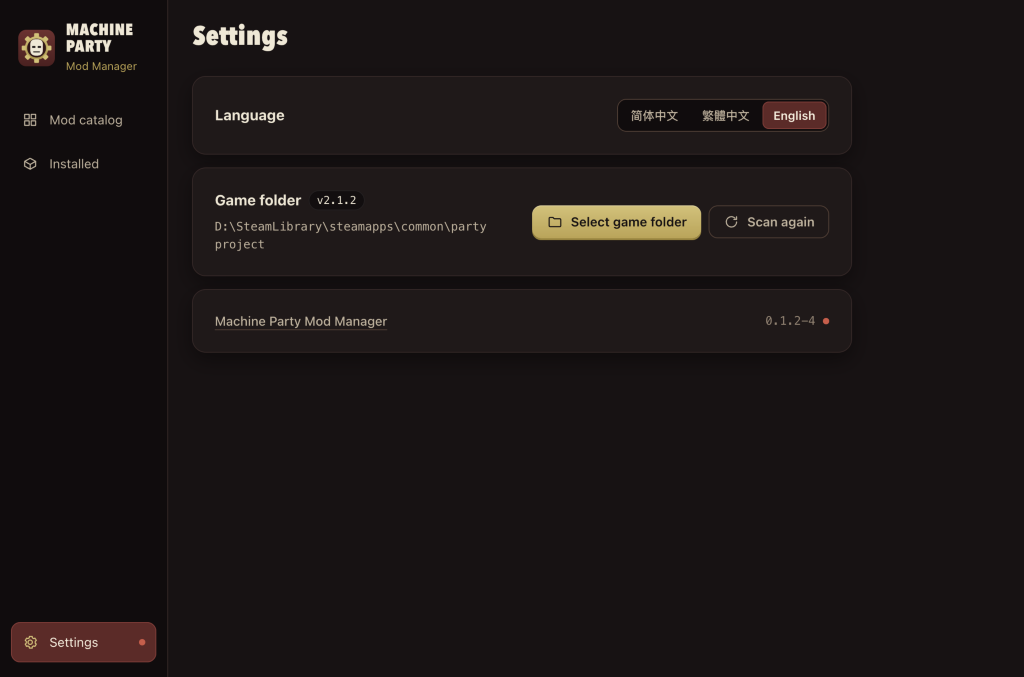
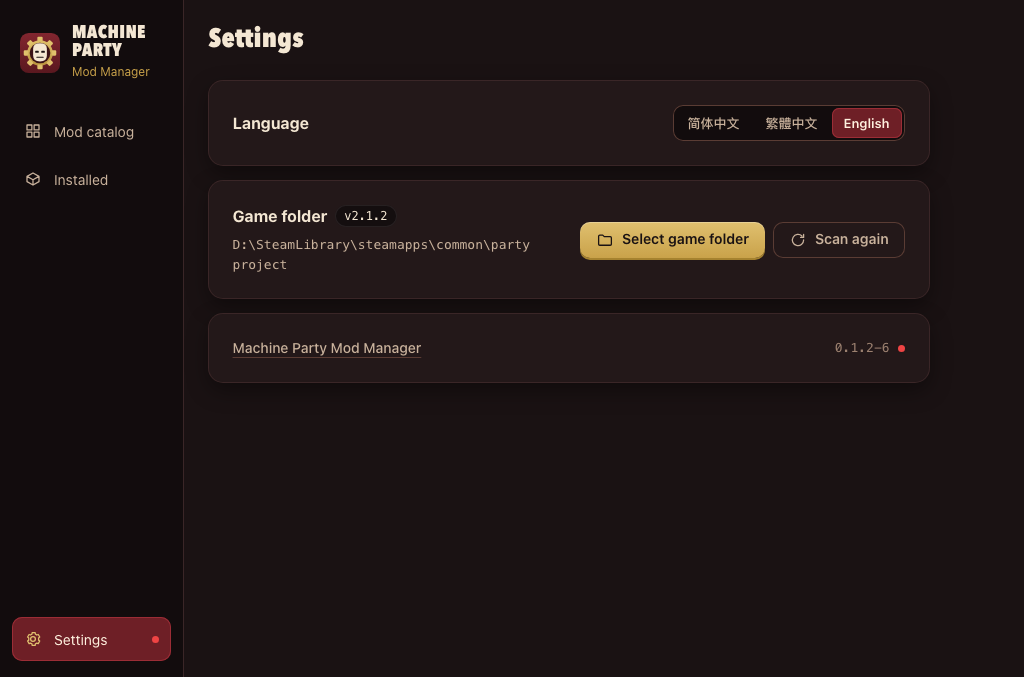
docs: update guides and add localized desktop screenshots

diff --git a/docs/readme/README.zh-TW.md b/docs/readme/README.zh-TW.md
@@ -6,7 +6,7 @@
 
 ### 為 Machine Party 打造的一鍵模組管理器。
 
-在同一個視窗瀏覽 [Machine Party](https://store.steampowered.com/app/4108000/Machine_Party/) 的精選社群模組與內建玩法模組，依遊戲副本比對版本，並在驗證與備份保護下完成安裝與還原。
+在同一個視窗瀏覽 [Machine Party](https://store.steampowered.com/app/4108000/Machine_Party/) 的精選收錄模組，依遊戲副本比對版本，並在驗證與備份保護下完成安裝與還原。
 
 <p align="center">
   <a href="https://github.com/JamesGZM/machine-party-mod-manager/actions/workflows/check.yml"><img src="https://img.shields.io/github/actions/workflow/status/JamesGZM/machine-party-mod-manager/check.yml?branch=main&amp;style=flat-square&amp;label=checks" height="24" alt="原始碼檢查狀態"></a>
@@ -27,16 +27,16 @@
 </div>
 
 <p align="center">
-  <img src="../images/screenshot-catalog.png" width="100%" alt="Machine Party 模組管理器目錄介面，顯示五個 v2.1.2 測試版條目">
+  <img src="../images/screenshot-catalog.zh-TW.png" width="100%" alt="Machine Party 模組管理器目錄介面，顯示五個 v2.1.2 測試版條目">
 </p>
 
-<p align="center"><sub>桌面端目錄介面，顯示包含內建模組《滾筒嘉年華》在內的全部五個 <code>v2.1.2</code> Windows 測試版條目。</sub></p>
+<p align="center"><sub>桌面端目錄介面，顯示全部五個 <code>v2.1.2</code> Windows 測試版條目。</sub></p>
 
 ## 一目了然
 
-| 精選收錄與內建模組 | 校驗備份，安全還原 | 鏡像加速與簽章更新 |
+| 精選收錄模組 | 校驗備份，安全還原 | 鏡像加速與簽章更新 |
 | --- | --- | --- |
-| 支援簡體中文、繁體中文與英文別名搜尋、連線說明與作者首頁入口，並內建自研模組《滾筒嘉年華》。 | 修改檔案前先檢查遊戲程序、基線指紋與互斥衝突；依遊戲副本保留可校驗備份，支援離線卸載還原。 | 目錄同步與已授權安裝包優先經專案 Cloudflare Worker 取得，不依賴連線 GitHub；應用更新附簽章驗證與更新說明。 |
+| 支援簡體中文、繁體中文與英文別名搜尋、連線說明與作者首頁入口，涵蓋目錄內全部模組。 | 修改檔案前先檢查遊戲程序、基線指紋與互斥衝突；依遊戲副本保留可校驗備份，支援離線卸載還原。 | 目錄同步與已授權安裝包優先經專案 Cloudflare Worker 取得，不依賴連線 GitHub；應用更新附簽章驗證與更新說明。 |
 
 Steam 目錄自動偵測 · 離線快取與還原 · 简体中文 / 繁體中文 / English 三語介面
 
@@ -46,7 +46,7 @@ Steam 目錄自動偵測 · 離線快取與還原 · 简体中文 / 繁體中文
 
 | 平台 | 架構 | 下載 | 說明 |
 | --- | --- | --- | --- |
-| Windows | x64 | [正式版 v0.1.1（`setup.exe`）](https://machineparty.ailaogong.men/v1/app-downloads/0.1.1/setup.exe) · [測試版 v0.1.2-3（`setup.exe`）](https://machineparty.ailaogong.men/v1/app-downloads/0.1.2-3/setup.exe) | NSIS 安裝程式，支援簽章應用內更新 |
+| Windows | x64 | [正式版 v0.1.1（`setup.exe`）](https://machineparty.ailaogong.men/v1/app-downloads/0.1.1/setup.exe) · [測試版 v0.1.2-6（`setup.exe`）](https://machineparty.ailaogong.men/v1/app-downloads/0.1.2-6/setup.exe) | NSIS 安裝程式，支援簽章應用內更新 |
 | macOS | Apple Silicon | [正式版 v0.1.1（`MachineParty-aarch64.app.tar.gz`）](https://machineparty.ailaogong.men/v1/app-downloads/0.1.1/MachineParty-aarch64.app.tar.gz) | 瀏覽目錄與接收應用更新（遊戲僅限 Windows） |
 
 Windows 下載後執行 NSIS 安裝程式即可；Apple Silicon Mac 解壓封存檔並將 `.app` 移入可寫入的應用程式目錄。
@@ -64,7 +64,7 @@ Windows 下載後執行 NSIS 安裝程式即可；Apple Silicon Mac 解壓封存
 
 | 設定頁 | 應用內更新提示 |
 | --- | --- |
-| ![設定頁](../images/screenshot-settings.png) | ![應用內更新提示](../images/screenshot-update.png) |
+| ![設定頁](../images/screenshot-settings.zh-TW.png) | ![應用內更新提示](../images/screenshot-update.zh-TW.png) |
 
 ## 已收錄模組
 
@@ -74,7 +74,7 @@ Windows 下載後執行 NSIS 安裝程式即可；Apple Silicon Mac 解壓封存
 | [MachineParty+](https://github.com/Ghostx10742/MachineParty-Plus) | `v2.1.0` | 公開房間、語音與文字聊天 | 載入器模組（`loader-files`，Windows 測試版） |
 | [Broadcast 8P Freecam](https://github.com/Lnksoul/MachineParty_Broadcast8P_Freecam_Patcher) | `v0.91` | 八人團播、四隊輪換與導播自由鏡頭 | PowerShell 修補（`upstream-cli`，Windows 測試版） |
 | [八人連線模組](https://github.com/Binary1936/machine-party-8p) | `v1.5` | 將線上遊戲擴充至 8 人 | 內建 Python 修補（`upstream-cli`，Windows 測試版） |
-| [滾筒嘉年華](https://github.com/JamesGZM/machine-party-mod-manager/tree/main/mods/roller-carnival) | `v0.1.0` | 機械狂歡躲避小遊戲 | 載入器模組（`loader-files` + `autoLoader`，R2 ZIP，Windows 測試版） |
+| [滾筒嘉年華](https://github.com/JamesGZM/machine-party-mod-manager/tree/main/mods/roller-carnival) | `v0.1.0` | 機械狂歡躲避小遊戲 | 載入器模組（`loader-files`，Windows 測試版） |
 
 驗收清單、上游授權邊界與互斥群組規則詳見[候選模組與收錄規範](../zh-TW/catalog/mods.md)。
 
@@ -89,6 +89,7 @@ Windows 下載後執行 NSIS 安裝程式即可；Apple Silicon Mac 解壓封存
 | [產品需求](../zh-TW/requirements.md) | 玩家流程、目錄順序、搜尋及驗收條件 |
 | [現行架構](../zh-TW/architecture/README.md) | 元件、Steam 偵測、目錄、安裝與 ADR |
 | [開發指南](../zh-TW/development/README.md) | 環境、目錄結構、命令與驗證 |
+| [模組開發與打包規範](../zh-TW/development/mod-development.md) | 模組開發、測試、目錄接入與確定性 R2 打包規範 |
 | [發布流程](../zh-TW/development/releasing.md) | 簽章桌面更新、更新說明與發布工作流程 |
 | [候選模組與收錄規範](../zh-TW/catalog/mods.md) | 遊戲基線、候選清單、授權與驗收單 |
 | [正式目錄交付方案](../zh-TW/catalog/delivery.md) | Worker 目錄、擁有者批准發布與中國大陸驗收（規劃中） |

diff --git a/docs/readme/README.zh-CN.md b/docs/readme/README.zh-CN.md
@@ -6,7 +6,7 @@
 
 ### 为 Machine Party 打造的一键模组管理器。
 
-在同一个窗口浏览 [Machine Party](https://store.steampowered.com/app/4108000/Machine_Party/) 的精选社区模组与内置玩法模组，按游戏副本对比版本，并在校验与备份保护下完成安装与还原。
+在同一个窗口浏览 [Machine Party](https://store.steampowered.com/app/4108000/Machine_Party/) 的精选收录模组，按游戏副本对比版本，并在校验与备份保护下完成安装与还原。
 
 <p align="center">
   <a href="https://github.com/JamesGZM/machine-party-mod-manager/actions/workflows/check.yml"><img src="https://img.shields.io/github/actions/workflow/status/JamesGZM/machine-party-mod-manager/check.yml?branch=main&amp;style=flat-square&amp;label=checks" height="24" alt="源码检查状态"></a>
@@ -27,16 +27,16 @@
 </div>
 
 <p align="center">
-  <img src="../images/screenshot-catalog.png" width="100%" alt="Machine Party 模组管理器目录界面，展示五个 v2.1.2 测试版条目">
+  <img src="../images/screenshot-catalog.zh-CN.png" width="100%" alt="Machine Party 模组管理器目录界面，展示五个 v2.1.2 测试版条目">
 </p>
 
-<p align="center"><sub>桌面端目录界面，展示包含内置模组《滚筒嘉年华》在内的全部五个 <code>v2.1.2</code> Windows 测试版条目。</sub></p>
+<p align="center"><sub>桌面端目录界面，展示全部五个 <code>v2.1.2</code> Windows 测试版条目。</sub></p>
 
 ## 一目了然
 
-| 精选收录与内置模组 | 校验备份，安全还原 | 镜像加速与签名更新 |
+| 精选收录模组 | 校验备份，安全还原 | 镜像加速与签名更新 |
 | --- | --- | --- |
-| 支持简体中文、繁体中文与英文别名搜索、联机说明与作者主页入口，并内置自研模组《滚筒嘉年华》。 | 修改文件前先检查游戏进程、基线指纹与互斥冲突；按游戏副本保留可校验备份，支持离线卸载还原。 | 目录同步与已授权安装包优先经项目 Cloudflare Worker 获取，不依赖访问 GitHub；应用更新带签名校验与更新说明。 |
+| 支持简体中文、繁体中文与英文别名搜索、联机说明与作者主页入口，覆盖目录内全部模组。 | 修改文件前先检查游戏进程、基线指纹与互斥冲突；按游戏副本保留可校验备份，支持离线卸载还原。 | 目录同步与已授权安装包优先经项目 Cloudflare Worker 获取，不依赖访问 GitHub；应用更新带签名校验与更新说明。 |
 
 Steam 目录自动检测 · 离线缓存与还原 · 简体中文 / 繁體中文 / English 三语界面
 
@@ -46,7 +46,7 @@ Steam 目录自动检测 · 离线缓存与还原 · 简体中文 / 繁體中文
 
 | 平台 | 架构 | 下载 | 说明 |
 | --- | --- | --- | --- |
-| Windows | x64 | [正式版 v0.1.1（`setup.exe`）](https://machineparty.ailaogong.men/v1/app-downloads/0.1.1/setup.exe) · [测试版 v0.1.2-3（`setup.exe`）](https://machineparty.ailaogong.men/v1/app-downloads/0.1.2-3/setup.exe) | NSIS 安装包，支持签名应用内更新 |
+| Windows | x64 | [正式版 v0.1.1（`setup.exe`）](https://machineparty.ailaogong.men/v1/app-downloads/0.1.1/setup.exe) · [测试版 v0.1.2-6（`setup.exe`）](https://machineparty.ailaogong.men/v1/app-downloads/0.1.2-6/setup.exe) | NSIS 安装包，支持签名应用内更新 |
 | macOS | Apple Silicon | [正式版 v0.1.1（`MachineParty-aarch64.app.tar.gz`）](https://machineparty.ailaogong.men/v1/app-downloads/0.1.1/MachineParty-aarch64.app.tar.gz) | 浏览目录与接收应用更新（游戏仅限 Windows） |
 
 Windows 下载后运行 NSIS 安装程序即可；Apple Silicon Mac 解压归档并将 `.app` 移入可写的应用程序目录。
@@ -64,7 +64,7 @@ Windows 下载后运行 NSIS 安装程序即可；Apple Silicon Mac 解压归档
 
 | 设置页 | 应用内更新提示 |
 | --- | --- |
-| ![设置页](../images/screenshot-settings.png) | ![应用内更新提示](../images/screenshot-update.png) |
+| ![设置页](../images/screenshot-settings.zh-CN.png) | ![应用内更新提示](../images/screenshot-update.zh-CN.png) |
 
 ## 已收录模组
 
@@ -74,7 +74,7 @@ Windows 下载后运行 NSIS 安装程序即可；Apple Silicon Mac 解压归档
 | [MachineParty+](https://github.com/Ghostx10742/MachineParty-Plus) | `v2.1.0` | 公开房间、语音与文字聊天 | 加载器模组（`loader-files`，Windows 测试版） |
 | [Broadcast 8P Freecam](https://github.com/Lnksoul/MachineParty_Broadcast8P_Freecam_Patcher) | `v0.91` | 8 人团播、四队轮换与导播自由镜头 | PowerShell 补丁（`upstream-cli`，Windows 测试版） |
 | [八人联机模组](https://github.com/Binary1936/machine-party-8p) | `v1.5` | 将在线游戏扩展至 8 人 | 内置 Python 补丁（`upstream-cli`，Windows 测试版） |
-| [滚筒嘉年华](https://github.com/JamesGZM/machine-party-mod-manager/tree/main/mods/roller-carnival) | `v0.1.0` | 机械狂欢躲避小游戏 | 加载器模组（`loader-files` + `autoLoader`，R2 ZIP，Windows 测试版） |
+| [滚筒嘉年华](https://github.com/JamesGZM/machine-party-mod-manager/tree/main/mods/roller-carnival) | `v0.1.0` | 机械狂欢躲避小游戏 | 加载器模组（`loader-files`，Windows 测试版） |
 
 验收清单、上游授权边界与互斥组规则详见[候选模组与收录规范](../zh-CN/catalog/mods.md)。
 
@@ -89,6 +89,7 @@ Windows 下载后运行 NSIS 安装程序即可；Apple Silicon Mac 解压归档
 | [产品需求](../zh-CN/requirements.md) | 玩家流程、目录顺序、搜索及验收条件 |
 | [现行架构](../zh-CN/architecture/README.md) | 组件、Steam 检测、目录、安装与 ADR |
 | [开发指南](../zh-CN/development/README.md) | 环境、目录结构、命令与验证 |
+| [模组开发与打包规范](../zh-CN/development/mod-development.md) | 模组开发、测试、目录接入与确定性 R2 打包规范 |
 | [发布流程](../zh-CN/development/releasing.md) | 签名桌面更新、更新说明与发布工作流 |
 | [候选模组与收录规范](../zh-CN/catalog/mods.md) | 游戏基线、候选清单、授权与验收单 |
 | [正式目录交付方案](../zh-CN/catalog/delivery.md) | Worker 目录、所有者批准发布与中国大陆验收（规划中） |

diff --git a/README.md b/README.md
@@ -6,7 +6,7 @@
 
 ### One-click mod management for Machine Party.
 
-Browse hand-curated community mods and built-in add-ons for [Machine Party](https://store.steampowered.com/app/4108000/Machine_Party/), compare versions per Steam copy, and install or restore cleanly from one desktop window.
+Browse hand-curated mods for [Machine Party](https://store.steampowered.com/app/4108000/Machine_Party/), compare versions per Steam copy, and install or restore cleanly from one desktop window.
 
 <p align="center">
   <a href="https://github.com/JamesGZM/machine-party-mod-manager/actions/workflows/check.yml"><img src="https://img.shields.io/github/actions/workflow/status/JamesGZM/machine-party-mod-manager/check.yml?branch=main&amp;style=flat-square&amp;label=checks" height="24" alt="Source checks"></a>
@@ -30,13 +30,13 @@ Browse hand-curated community mods and built-in add-ons for [Machine Party](http
   <img src="docs/images/screenshot-catalog.png" width="100%" alt="Machine Party Mod Manager catalog view showing five v2.1.2 preview entries">
 </p>
 
-<p align="center"><sub>Desktop catalog UI displaying all five <code>v2.1.2</code> Windows preview entries, including built-in Roller Carnival.</sub></p>
+<p align="center"><sub>Desktop catalog UI displaying all five <code>v2.1.2</code> Windows preview entries.</sub></p>
 
 ## At a glance
 
-| Curated & built-in mods | Verified backups & restore | Mirror access & signed updates |
+| Curated mod catalog | Verified backups & restore | Mirror access & signed updates |
 | --- | --- | --- |
-| Search names, multiplayer notes and aliases in Simplified Chinese, Traditional Chinese and English, including built-in `Roller Carnival`. | Checks running processes, game fingerprints and mutual-exclusion conflicts before editing files, keeping per-copy backups for offline uninstall. | Syncs the online catalog and approved packages via the project's Cloudflare Worker without needing GitHub; silent signed app updates include release notes. |
+| Search names, multiplayer notes and aliases in Simplified Chinese, Traditional Chinese and English across all catalogued mods. | Checks running processes, game fingerprints and mutual-exclusion conflicts before editing files, keeping per-copy backups for offline uninstall. | Syncs the online catalog and approved packages via the project's Cloudflare Worker without needing GitHub; silent signed app updates include release notes. |
 
 Automatic Steam detection · Offline cache & restore · Trilingual UI (简体中文 / 繁體中文 / English)
 
@@ -46,7 +46,7 @@ Download builds directly from the project mirror below or from [GitHub Releases]
 
 | Platform | Architecture | Download | Notes |
 | --- | --- | --- | --- |
-| Windows | x64 | [Stable v0.1.1 (`setup.exe`)](https://machineparty.ailaogong.men/v1/app-downloads/0.1.1/setup.exe) · [Preview v0.1.2-3 (`setup.exe`)](https://machineparty.ailaogong.men/v1/app-downloads/0.1.2-3/setup.exe) | NSIS installer, signed in-app updates |
+| Windows | x64 | [Stable v0.1.1 (`setup.exe`)](https://machineparty.ailaogong.men/v1/app-downloads/0.1.1/setup.exe) · [Preview v0.1.2-6 (`setup.exe`)](https://machineparty.ailaogong.men/v1/app-downloads/0.1.2-6/setup.exe) | NSIS installer, signed in-app updates |
 | macOS | Apple Silicon | [Stable v0.1.1 (`MachineParty-aarch64.app.tar.gz`)](https://machineparty.ailaogong.men/v1/app-downloads/0.1.1/MachineParty-aarch64.app.tar.gz) | Catalog browsing & signed updates |
 
 On Windows, run the NSIS installer. On Apple Silicon Mac, extract the archive and move the `.app` to a writable Applications folder.
@@ -74,7 +74,7 @@ On Windows, run the NSIS installer. On Apple Silicon Mac, extract the archive an
 | [MachineParty+](https://github.com/Ghostx10742/MachineParty-Plus) | `v2.1.0` | Public lobbies, voice chat and text chat | Loader mod (`loader-files`, Windows preview) |
 | [Broadcast 8P Freecam](https://github.com/Lnksoul/MachineParty_Broadcast8P_Freecam_Patcher) | `v0.91` | Eight players, rotating teams and director free camera | PowerShell patcher (`upstream-cli`, Windows preview) |
 | [Binary1936 eight-player mod](https://github.com/Binary1936/machine-party-8p) | `v1.5` | Expands online play to eight players | Bundled Python patcher (`upstream-cli`, Windows preview) |
-| [Roller Carnival](https://github.com/JamesGZM/machine-party-mod-manager/tree/main/mods/roller-carnival) | `v0.1.0` | Mechanical carnival dodge minigame | Loader mod (`loader-files` + `autoLoader`, R2 ZIP, Windows preview) |
+| [Roller Carnival](https://github.com/JamesGZM/machine-party-mod-manager/tree/main/mods/roller-carnival) | `v0.1.0` | Mechanical carnival dodge minigame | Loader mod (`loader-files`, Windows preview) |
 
 See [candidate mods and inclusion rules](docs/en/catalog/mods.md) for acceptance checklists, upstream licensing notes and conflict groups.
 
@@ -89,6 +89,7 @@ Development target **0.1.2-6** wires Windows `v2.1.2` adapters for all five cata
 | [Product requirements](docs/en/requirements.md) | Player flows, catalog order, search and acceptance criteria |
 | [Current architecture](docs/en/architecture/README.md) | Components, Steam detection, catalog, installs and ADRs |
 | [Development guide](docs/en/development/README.md) | Setup, layout, commands and verification |
+| [Mod development specification](docs/en/development/mod-development.md) | Authoring, testing, catalog integration and deterministic R2 packaging |
 | [Releasing](docs/en/development/releasing.md) | Signed desktop updates, release notes and release workflow |
 | [Candidate mods and inclusion](docs/en/catalog/mods.md) | Game baseline, candidates, licences and the acceptance checklist |
 | [Catalog delivery](docs/en/catalog/delivery.md) | Worker catalog, owner-approved publishing and mainland China acceptance (planned) |

diff --git a/docs/zh-TW/ui-design.md b/docs/zh-TW/ui-design.md
@@ -2,7 +2,7 @@
 
 [English](../en/ui-design.md) · [简体中文](../zh-CN/ui-design.md) · **繁體中文**
 
-本文描述桌面端目前的介面規格，並標出尚未實作的部分。目前介面見[截圖](../images/screenshot-catalog.png)，最初的概念圖為 [ui-reference.png](../images/ui-reference.png)。介面改版會直接更新本文，不追加「取代上文」的段落。
+本文描述桌面端目前的介面規格，並標出尚未實作的部分。目前介面見[截圖](../images/screenshot-catalog.zh-TW.png)，最初的概念圖為 [ui-reference.png](../images/ui-reference.png)。介面改版會直接更新本文，不追加「取代上文」的段落。
 
 ## 視覺風格：機械派對
 
@@ -44,7 +44,7 @@
 | 本機較新 | 「本機版本較新」，保留現有安裝 | 「解除安裝」 |
 | 任一版本不明、格式無法比較，或安裝紀錄讀取失敗 | 「需核對版本」，不自動替換 | 「需核對版本」（開啟詳情） |
 
-在 Windows 測試版中，全部五個 `v2.1.2` 目錄條目都會執行真實的分步安裝與解除安裝彈窗（下載、沿用快取，或直接從應用內釋放 `"bundled": true` 內建自研模組而無需下載；隨後完成校驗、備份、安裝／還原、讀回驗證、失敗重試以及互斥衝突提示）；在 macOS 上或面對未驗證版本時，操作僅說明狀態，不修改任何遊戲檔案。
+在 Windows 測試版中，全部五個 `v2.1.2` 目錄條目都會執行真實的分步安裝與解除安裝彈窗（從 Worker/R2 鏡像下載或沿用快取，隨後完成 SHA-256 校驗、備份、安裝／還原、讀回驗證、失敗重試以及互斥衝突提示）；在 macOS 上或面對未驗證版本時，操作僅說明狀態，不修改任何遊戲檔案。
 
 ## 詳情彈窗
 

diff --git a/docs/zh-CN/ui-design.md b/docs/zh-CN/ui-design.md
@@ -2,7 +2,7 @@
 
 [English](../en/ui-design.md) · **简体中文** · [繁體中文](../zh-TW/ui-design.md)
 
-本文描述桌面端当前的界面规格，并标出尚未实现的部分。当前界面见[截图](../images/screenshot-catalog.png)，最初的概念图为 [ui-reference.png](../images/ui-reference.png)。界面改版会直接更新本文，不追加“取代上文”的段落。
+本文描述桌面端当前的界面规格，并标出尚未实现的部分。当前界面见[截图](../images/screenshot-catalog.zh-CN.png)，最初的概念图为 [ui-reference.png](../images/ui-reference.png)。界面改版会直接更新本文，不追加“取代上文”的段落。
 
 ## 视觉风格：机械派对
 
@@ -44,7 +44,7 @@
 | 本机较新 | “本机版本较新”，保留现有安装 | “卸载” |
 | 任一版本未知、格式无法比较，或安装记录读取失败 | “需核对版本”，不自动替换 | “需核对版本”（打开详情） |
 
-在 Windows 测试版中，全部五个 `v2.1.2` 目录条目都会执行真实的分步安装与卸载弹窗（下载、复用缓存，或直接从应用内释放 `"bundled": true` 内置自研模组而无需下载；随后完成校验、备份、安装/还原、回读验证、失败重试以及互斥冲突提示）；在 macOS 上或面对未验证版本时，操作仅说明状态，不修改任何游戏文件。
+在 Windows 测试版中，全部五个 `v2.1.2` 目录条目都会执行真实的分步安装与卸载弹窗（从 Worker/R2 镜像下载或复用缓存，随后完成 SHA-256 校验、备份、安装/还原、回读验证、失败重试以及互斥冲突提示）；在 macOS 上或面对未验证版本时，操作仅说明状态，不修改任何游戏文件。
 
 ## 详情弹窗
 

diff --git a/docs/zh-TW/architecture/ADR-007-mod-adapters.md b/docs/zh-TW/architecture/ADR-007-mod-adapters.md
@@ -2,7 +2,7 @@
 
 [English](../../en/architecture/ADR-007-mod-adapters.md) · [简体中文](../../zh-CN/architecture/ADR-007-mod-adapters.md) · **繁體中文**
 
-日期：2026-11-18（2026-11-19 更新）。狀態：提議；`upstream-cli`（`exe`、`bundled-python`、`powershell`）與 `loader-files`（支援可選的內建 `bundled` 釋放與 `autoLoader` PCK 載入器自動設定）皆已在 `installer.rs` 實作，並在 `catalog/mods.json` 為全部五個 `v2.1.2` Windows 測試版模組（含內建自研模組 `滾筒嘉年華`）完成設定，待完整 Windows 實機驗收後與 [ADR-005](ADR-005-install-transactions.md) 一併定稿。
+日期：2026-11-18（2026-11-19 更新）。狀態：提議；`upstream-cli`（`exe`、`bundled-python`、`powershell`）與 `loader-files`（從 Worker/R2 安裝已校驗 ZIP 套件並支援可選 `autoLoader` PCK 載入器自動設定）皆已在 `installer.rs` 實作，並在 `catalog/mods.json` 為全部五個 `v2.1.2` Windows 測試版模組（`Overtime`、`MachineParty+`、`Broadcast 8P Freecam`、`八人連線模組` 與 `滾筒嘉年華`）完成設定，待完整 Windows 實機驗收後與 [ADR-005](ADR-005-install-transactions.md) 一併定稿。
 
 ## 問題
 

diff --git a/docs/zh-CN/architecture/ADR-007-mod-adapters.md b/docs/zh-CN/architecture/ADR-007-mod-adapters.md
@@ -2,7 +2,7 @@
 
 [English](../../en/architecture/ADR-007-mod-adapters.md) · **简体中文** · [繁體中文](../../zh-TW/architecture/ADR-007-mod-adapters.md)
 
-日期：2026-11-18（2026-11-19 更新）。状态：提议；`upstream-cli`（`exe`、`bundled-python`、`powershell`）与 `loader-files`（支持可选的内置 `bundled` 释放与 `autoLoader` PCK 加载器自动配置）均已在 `installer.rs` 实现，并在 `catalog/mods.json` 为全部五个 `v2.1.2` Windows 测试版模组（含内置自研模组 `滚筒嘉年华`）完成配置，待完整 Windows 实机验收后与 [ADR-005](ADR-005-install-transactions.md) 一并定稿。
+日期：2026-11-18（2026-11-19 更新）。状态：提议；`upstream-cli`（`exe`、`bundled-python`、`powershell`）与 `loader-files`（从 Worker/R2 安装已校验 ZIP 包并支持可选 `autoLoader` PCK 加载器自动配置）均已在 `installer.rs` 实现，并在 `catalog/mods.json` 为全部五个 `v2.1.2` Windows 测试版模组（`Overtime`、`MachineParty+`、`Broadcast 8P Freecam`、`八人联机模组` 与 `滚筒嘉年华`）完成配置，待完整 Windows 实机验收后与 [ADR-005](ADR-005-install-transactions.md) 一并定稿。
 
 ## 问题
 

diff --git a/docs/en/ui-design.md b/docs/en/ui-design.md
@@ -44,7 +44,7 @@ Taken from the game's wine-red overalls and brass machinery: deep wine backgroun
 | Local newer | "Local version is newer", existing install kept | "Uninstall" |
 | Either version unknown or not comparable, or records unreadable | "Check versions", never replaced automatically | "Check versions" (opens details) |
 
-On Windows preview, all five `v2.1.2` catalog entries run real step-by-step install and uninstall dialogs (download, reuse cache, or stage bundled first-party mods with `"bundled": true` directly from the app without downloading; then verify, back up, apply or restore, read-back verify, retry on failure, and report mutual-exclusion conflicts). On macOS or for unverified versions, actions explain the status without modifying game files.
+On Windows preview, all five `v2.1.2` catalog entries run real step-by-step install and uninstall dialogs (download from the Worker/R2 mirror or reuse cache; then verify SHA-256, back up, apply or restore, read-back verify, retry on failure, and report mutual-exclusion conflicts). On macOS or for unverified versions, actions explain the status without modifying game files.
 
 ## Details dialog
 

diff --git a/docs/en/architecture/ADR-007-mod-adapters.md b/docs/en/architecture/ADR-007-mod-adapters.md
@@ -2,7 +2,7 @@
 
 **English** · [简体中文](../../zh-CN/architecture/ADR-007-mod-adapters.md) · [繁體中文](../../zh-TW/architecture/ADR-007-mod-adapters.md)
 
-Date: 2026-11-18 (updated 2026-11-19). Status: proposed; both `upstream-cli` (`exe`, `bundled-python`, `powershell`) and `loader-files` (with optional `bundled` staging and `autoLoader` PCK loader setup) are implemented in `installer.rs` and configured in `catalog/mods.json` for all five `v2.1.2` Windows preview mods (including built-in `Roller Carnival`), awaiting full physical Windows acceptance ([ADR-005](ADR-005-install-transactions.md)).
+Date: 2026-11-18 (updated 2026-11-19). Status: proposed; both `upstream-cli` (`exe`, `bundled-python`, `powershell`) and `loader-files` (verified Worker/R2 ZIP packages with optional `autoLoader` PCK loader setup) are implemented in `installer.rs` and configured in `catalog/mods.json` for all five `v2.1.2` Windows preview mods (`Overtime`, `MachineParty+`, `Broadcast 8P Freecam`, `Binary1936 eight-player mod`, and `Roller Carnival`), awaiting full physical Windows acceptance ([ADR-005](ADR-005-install-transactions.md)).
 
 ## Problem
 
